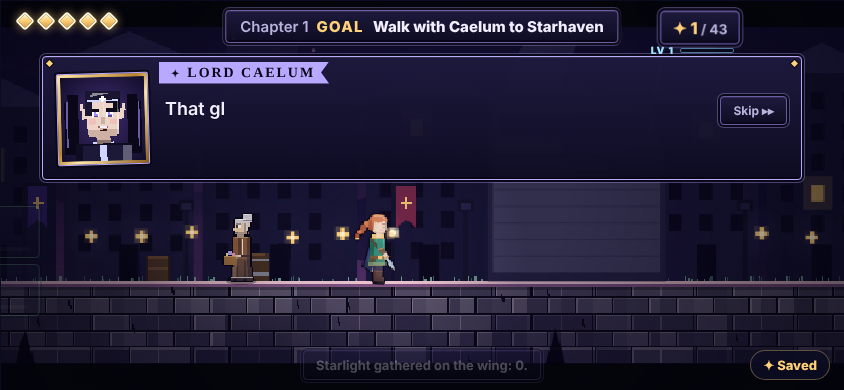
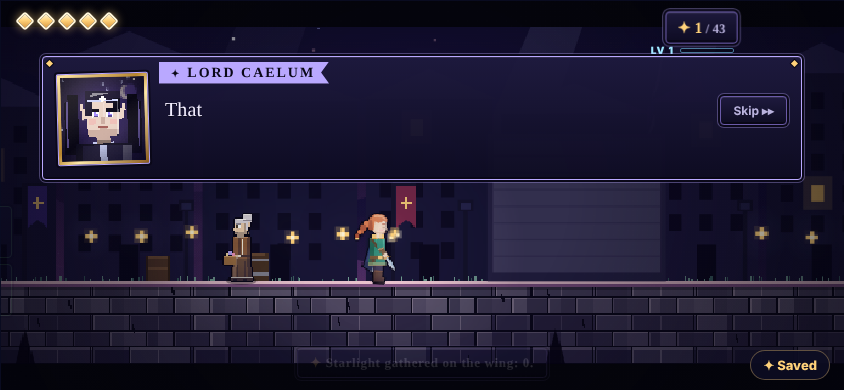
Starhaven Reimagined 16: overlapping text fixed, typographic identity, portrait backdrops
Floating words stack instead of overlapping; toasts, hints, bands, cards and
the name ribbon no longer share space. Story text uses an old book face,
world lettering uses Cinzel, hints stay plain. Portraits gain per-character
backdrops, form light and a vignette.

Claude-Session: https://claude.ai/code/session_01PwDoV4SgoNJ5FnbkB1YJ2V

diff --git a/starhaven/game/starhaven.html b/starhaven/game/starhaven.html
@@ -356,6 +356,23 @@ body.upright #d-face { width: 70px; height: 70px; } body.upright #dialog { margi
 .fbtn.sel { background: linear-gradient(90deg, rgba(255,210,122,.20), rgba(255,210,122,0)) !important; transform: none; box-shadow: none !important; }
 .fbtn.sel::before { background: var(--gold); box-shadow: 0 0 10px var(--gold); } .fbtn.sel .lbl { color: #fff6d8; } .fbtn.sel .lbl::before { content: ''; }
 #f-title { text-align: center; font-size: 17px; letter-spacing: .2em; text-transform: uppercase; }
+/* ---- one voice for the story, one for the world, one for the controls.
+   Story (what people say, what Wren writes): the old book face. The world's own lettering (names, titles, plaques): Cinzel
+   capitals in gold. How to play (hints, buttons): plain Nunito. And never two messages in the same place. */
+#d-text { font-family: 'IM Fell English', Georgia, serif; font-weight: 400; font-size: 20px; line-height: 1.36; letter-spacing: .005em; }
+#dialog.narr #d-text { font-family: 'IM Fell English', Georgia, serif; font-size: 19px; }
+.choice { font-family: 'IM Fell English', Georgia, serif; font-size: 17px; }
+#whisper span, .fx-row small, #ex-text, #c-text, .card p { font-family: 'IM Fell English', Georgia, serif; }
+#whisper span { font-size: 15px; } .fx-row small { font-size: 13.5px; font-style: italic; }
+#goal { font-family: var(--display); letter-spacing: .06em; font-size: 12.5px; } #goal .tag { font-size: 10px; letter-spacing: .2em; } #goal .tag::before { content: '\2726  '; }
+#toast { font-family: var(--display); letter-spacing: .05em; } #toast::before { content: '\2726  '; color: var(--gold); }
+#motes, #lvl, #art::after, .tbtn, #pause-btn { font-family: var(--display); }
+body[data-state="talk"] #goal { display: none; }                         /* the name ribbon sits where the goal was */
+#toast { bottom: auto !important; top: 50px !important; z-index: 8; } body.toasting #sign { opacity: 0 !important; }
+body.banding #sign, body.banding #toast, body.banding #effects { opacity: 0 !important; transition: opacity .15s; }
+#effects { top: 104px; }
+body.upright #toast { top: calc(var(--cvh) + env(safe-area-inset-top) + 72px) !important; }
+body[data-state="talk"]:not(.upright) #toast { top: auto !important; bottom: 12px !important; }   /* never over the speaker's name */
 /* ---- level and experience, under the Starlight count; touch buttons with a larger area than they look */
 #lvl { position: absolute; right: calc(max(14px, env(safe-area-inset-right)) + 96px); top: 44px; display: flex; align-items: center; gap: 6px; font: 800 10px var(--body); letter-spacing: .1em; color: #9fe8ff; }
 #lvl i { display: block; width: 54px; height: 5px; background: rgba(8,8,24,.75); border: 1px solid #4a7a9a; border-radius: 2px; overflow: hidden; } #lvl i span { display: block; height: 100%; background: linear-gradient(90deg, #4ab8e8, #9fe8ff); transition: width .4s; }
@@ -2326,7 +2343,8 @@ h2 { letter-spacing: .12em; text-transform: uppercase; }
   // Words that pop up by Wren sit behind her, never over the ground she is heading for.
   fx.word = function (x, y, text, color, life) {
     const p = SH.game && SH.game.world && SH.game.world.player;
-    if (p && Math.abs(x - p.x) < 34 && Math.abs(y - p.y) < 110) { x -= p.facing * 40; y -= 6; }
+    if (p && Math.abs(x - p.x) < 34 && Math.abs(y - p.y) < 110) { x -= p.facing * 12; y = Math.min(y, p.y - 62); }   // over her head and a little behind: clear of the path and of the cards
+    for (let k = 0; k < 6 && fx.words.some(o => Math.abs(o.x - x) < 70 && Math.abs(o.y - y) < 12); k++) y -= 13;   // never one word on top of another
     fx.words.push({ x, y, text, color: color || '#fff', life: Math.min(life || 50, 70), max: Math.min(life || 50, 70) });
   };
   fx.ghost = function (snap) { fx.ghosts.push(snap); };
@@ -3246,6 +3264,18 @@ h2 { letter-spacing: .12em; text-transform: uppercase; }
     // backdrop
     const gr = g.createRadialGradient(24, 20, 2, 24, 24, 34); gr.addColorStop(0, L.bg[0]); gr.addColorStop(1, L.bg[1]);
     g.fillStyle = gr; g.fillRect(0, 0, 48, 48);
+    {   // behind each face, something of where they belong
+      const h = i => { const x = Math.sin(i * 127.1 + who.length * 31.7) * 43758.5453; return x - Math.floor(x); };
+      const k = who.replace('_m', '');
+      if (k === 'caelum') { for (let i = 0; i < 16; i++) R(h(i) * 48, h(i + 40) * 30, 1, 1, i % 4 ? '#cfd6ff' : '#fff6d8'); g.fillStyle = 'rgba(255,246,216,0.5)'; g.beginPath(); g.arc(38, 9, 4, 0, 6.3); g.fill(); g.fillStyle = L.bg[0]; g.beginPath(); g.arc(40, 8, 3.6, 0, 6.3); g.fill(); }
+      else if (k === 'wren') { if (who === 'wren_m') { g.fillStyle = 'rgba(255,255,255,0.14)'; for (let i = 0; i < 4; i++) { g.beginPath(); g.moveTo(4 + i * 13, 48); g.lineTo(10 + i * 13, 14 + h(i) * 10); g.lineTo(16 + i * 13, 48); g.fill(); } for (let i = 0; i < 10; i++) R(h(i) * 48, h(i + 9) * 40, 1, 1, '#ffffff'); } else for (let i = 0; i < 12; i++) R(h(i) * 48, h(i + 20) * 34, 1, 1, i % 2 ? '#ffd27a' : '#fff6d8'); }
+      else if (k === 'bram') { const fg = g.createRadialGradient(24, 50, 2, 24, 50, 34); fg.addColorStop(0, 'rgba(255,150,70,0.6)'); fg.addColorStop(1, 'rgba(255,150,70,0)'); g.fillStyle = fg; g.fillRect(0, 0, 48, 48); for (let i = 0; i < 4; i++) { R(4 + i * 3, 4, 1, 16, 'rgba(200,210,226,0.5)'); } }
+      else if (k === 'iris') { g.strokeStyle = 'rgba(255,233,168,0.5)'; for (let i = 0; i < 3; i++) { g.beginPath(); g.moveTo(0, 8 + i * 9); g.bezierCurveTo(16, 2 + i * 12, 30, 20 + i * 4, 48, 6 + i * 10); g.stroke(); } for (let i = 0; i < 8; i++) R(h(i) * 48, h(i + 3) * 26, 1, 1, '#fff6d8'); }
+      else if (k === 'thane' || k === 'mirelle') { for (let y = 2; y < 34; y += 9) for (let x = 0; x < 48; x += 3) { const bh = 5 + h(x + y) * 3; g.globalAlpha = 0.45; R(x, y + 8 - bh, 2, bh, ['#7a2a3a', '#2c3d74', '#8a6a2a', '#3a5a2a'][(x + y) % 4]); } g.globalAlpha = 1; }
+      else if (k === 'nessa' || k === 'lissa') { for (let x = 0; x < 48; x += 7) { g.globalAlpha = 0.25; R(x, 0, 6, 48, '#4a3020'); g.globalAlpha = 1; } if (k === 'lissa') { R(38, 6, 1, 8, '#4a7a4a'); R(36, 5, 3, 2, '#8fd16b'); R(39, 8, 3, 2, '#8fd16b'); } }
+      else if (k === 'rowan') { for (let i = 0; i < 12; i++) { g.fillStyle = i % 2 ? 'rgba(255,154,192,0.7)' : 'rgba(255,255,255,0.7)'; g.fillRect(h(i) * 48, h(i + 7) * 36, 2, 2); } }
+      else if (k === 'queen') { g.strokeStyle = 'rgba(255,74,90,0.5)'; g.lineWidth = 2; for (let i = 0; i < 4; i++) { g.beginPath(); g.moveTo(i * 14, 48); g.quadraticCurveTo(i * 14 + 10, 20, i * 14 - 4, 0); g.stroke(); } g.lineWidth = 1; }
+    }
     if (L.wings) { R(2, 14, 8, 30, '#0a0818'); R(38, 14, 8, 30, '#0a0818'); R(4, 10, 6, 6, '#0a0818'); R(38, 10, 6, 6, '#0a0818'); R(3, 14, 1, 26, '#6a5aa8'); R(44, 14, 1, 26, '#6a5aa8'); }
     if (L.thread) { g.strokeStyle = '#ffe9a8'; g.globalAlpha = 0.8; g.beginPath(); g.moveTo(0, 40); g.bezierCurveTo(14, 24, 30, 46, 48, 30); g.stroke(); g.globalAlpha = 1; }
     // long hair behind
@@ -3294,6 +3324,11 @@ h2 { letter-spacing: .12em; text-transform: uppercase; }
     R(20, 34, 8, 2, L.shade); g.globalAlpha = 0.35; R(20, 36, 8, 2, '#000000'); g.globalAlpha = 1;
     g.globalAlpha = 0.5; R(18, 9, 9, 1, '#ffffff'); R(17, 10, 4, 1, '#ffffff'); g.globalAlpha = 0.25; R(24, 15, 1, 8, '#ffffff'); g.globalAlpha = 1;
     R(sx, 38, sw, 1, L.clothD); g.globalAlpha = 0.3; R(sx + sw - 5, 39, 5, 9, '#ffffff'); g.globalAlpha = 1;
+    // light the whole bust: warm from the upper left, cool shadow lower right, and darken the corners
+    g.globalCompositeOperation = 'source-atop';
+    const pl = g.createLinearGradient(8, 6, 40, 46); pl.addColorStop(0, 'rgba(255,240,205,0.16)'); pl.addColorStop(0.5, 'rgba(255,240,205,0)'); pl.addColorStop(1, 'rgba(24,16,70,0.26)'); g.fillStyle = pl; g.fillRect(0, 0, 48, 48);
+    const pv = g.createRadialGradient(24, 22, 14, 24, 24, 36); pv.addColorStop(0, 'rgba(0,0,0,0)'); pv.addColorStop(1, 'rgba(6,4,18,0.5)'); g.fillStyle = pv; g.fillRect(0, 0, 48, 48);
+    g.globalCompositeOperation = 'source-over';
     // rim light on the side away from the viewer
     g.globalAlpha = 0.35; R(32, 13, 1, 20, '#ffffff'); g.globalAlpha = 1;
     return (cache[key] = c);
@@ -7111,9 +7146,9 @@ h2 { letter-spacing: .12em; text-transform: uppercase; }
   H.toast = function (text) {
     const el = $('toast');
     el.textContent = text;
-    el.classList.add('show');
+    el.classList.add('show'); document.body.classList.add('toasting');   // a toast takes the hint's place while it is up
     clearTimeout(toastT);
-    toastT = setTimeout(() => el.classList.remove('show'), 3400);
+    toastT = setTimeout(() => { el.classList.remove('show'); document.body.classList.remove('toasting'); }, 3400);
   };
 
   // ---------------- dialogue box with a portrait
@@ -7254,9 +7289,9 @@ h2 { letter-spacing: .12em; text-transform: uppercase; }
   // The bond meter, the Bond Art button, and whispers down the bond.
   let lastArt = '';
   H.art = function (a) {
-    const on = a.active(), ready = a.ready(), key = on + '|' + ready + '|' + Math.round(a.meter) + '|' + a.nextKind() + '|' + !!a.cutin;
+    const on = a.active(), ready = a.ready(), key = on + '|' + ready + '|' + Math.round(a.meter) + '|' + a.nextKind() + '|' + !!a.cutin + '|' + !!a.band;
     if (key === lastArt) return; lastArt = key;
-    document.body.classList.toggle('cutin', !!a.cutin);
+    document.body.classList.toggle('cutin', !!a.cutin); document.body.classList.toggle('banding', !!a.band);
     $('art').style.display = on ? 'block' : 'none';
     $('art').classList.toggle('ready', ready);
     $('art').firstChild.style.width = Math.round(a.meter / a.max * 100) + '%';

diff --git a/starhaven/game/src/art.js b/starhaven/game/src/art.js
@@ -29,6 +29,18 @@
     // backdrop
     const gr = g.createRadialGradient(24, 20, 2, 24, 24, 34); gr.addColorStop(0, L.bg[0]); gr.addColorStop(1, L.bg[1]);
     g.fillStyle = gr; g.fillRect(0, 0, 48, 48);
+    {   // behind each face, something of where they belong
+      const h = i => { const x = Math.sin(i * 127.1 + who.length * 31.7) * 43758.5453; return x - Math.floor(x); };
+      const k = who.replace('_m', '');
+      if (k === 'caelum') { for (let i = 0; i < 16; i++) R(h(i) * 48, h(i + 40) * 30, 1, 1, i % 4 ? '#cfd6ff' : '#fff6d8'); g.fillStyle = 'rgba(255,246,216,0.5)'; g.beginPath(); g.arc(38, 9, 4, 0, 6.3); g.fill(); g.fillStyle = L.bg[0]; g.beginPath(); g.arc(40, 8, 3.6, 0, 6.3); g.fill(); }
+      else if (k === 'wren') { if (who === 'wren_m') { g.fillStyle = 'rgba(255,255,255,0.14)'; for (let i = 0; i < 4; i++) { g.beginPath(); g.moveTo(4 + i * 13, 48); g.lineTo(10 + i * 13, 14 + h(i) * 10); g.lineTo(16 + i * 13, 48); g.fill(); } for (let i = 0; i < 10; i++) R(h(i) * 48, h(i + 9) * 40, 1, 1, '#ffffff'); } else for (let i = 0; i < 12; i++) R(h(i) * 48, h(i + 20) * 34, 1, 1, i % 2 ? '#ffd27a' : '#fff6d8'); }
+      else if (k === 'bram') { const fg = g.createRadialGradient(24, 50, 2, 24, 50, 34); fg.addColorStop(0, 'rgba(255,150,70,0.6)'); fg.addColorStop(1, 'rgba(255,150,70,0)'); g.fillStyle = fg; g.fillRect(0, 0, 48, 48); for (let i = 0; i < 4; i++) { R(4 + i * 3, 4, 1, 16, 'rgba(200,210,226,0.5)'); } }
+      else if (k === 'iris') { g.strokeStyle = 'rgba(255,233,168,0.5)'; for (let i = 0; i < 3; i++) { g.beginPath(); g.moveTo(0, 8 + i * 9); g.bezierCurveTo(16, 2 + i * 12, 30, 20 + i * 4, 48, 6 + i * 10); g.stroke(); } for (let i = 0; i < 8; i++) R(h(i) * 48, h(i + 3) * 26, 1, 1, '#fff6d8'); }
+      else if (k === 'thane' || k === 'mirelle') { for (let y = 2; y < 34; y += 9) for (let x = 0; x < 48; x += 3) { const bh = 5 + h(x + y) * 3; g.globalAlpha = 0.45; R(x, y + 8 - bh, 2, bh, ['#7a2a3a', '#2c3d74', '#8a6a2a', '#3a5a2a'][(x + y) % 4]); } g.globalAlpha = 1; }
+      else if (k === 'nessa' || k === 'lissa') { for (let x = 0; x < 48; x += 7) { g.globalAlpha = 0.25; R(x, 0, 6, 48, '#4a3020'); g.globalAlpha = 1; } if (k === 'lissa') { R(38, 6, 1, 8, '#4a7a4a'); R(36, 5, 3, 2, '#8fd16b'); R(39, 8, 3, 2, '#8fd16b'); } }
+      else if (k === 'rowan') { for (let i = 0; i < 12; i++) { g.fillStyle = i % 2 ? 'rgba(255,154,192,0.7)' : 'rgba(255,255,255,0.7)'; g.fillRect(h(i) * 48, h(i + 7) * 36, 2, 2); } }
+      else if (k === 'queen') { g.strokeStyle = 'rgba(255,74,90,0.5)'; g.lineWidth = 2; for (let i = 0; i < 4; i++) { g.beginPath(); g.moveTo(i * 14, 48); g.quadraticCurveTo(i * 14 + 10, 20, i * 14 - 4, 0); g.stroke(); } g.lineWidth = 1; }
+    }
     if (L.wings) { R(2, 14, 8, 30, '#0a0818'); R(38, 14, 8, 30, '#0a0818'); R(4, 10, 6, 6, '#0a0818'); R(38, 10, 6, 6, '#0a0818'); R(3, 14, 1, 26, '#6a5aa8'); R(44, 14, 1, 26, '#6a5aa8'); }
     if (L.thread) { g.strokeStyle = '#ffe9a8'; g.globalAlpha = 0.8; g.beginPath(); g.moveTo(0, 40); g.bezierCurveTo(14, 24, 30, 46, 48, 30); g.stroke(); g.globalAlpha = 1; }
     // long hair behind
@@ -77,6 +89,11 @@
     R(20, 34, 8, 2, L.shade); g.globalAlpha = 0.35; R(20, 36, 8, 2, '#000000'); g.globalAlpha = 1;
     g.globalAlpha = 0.5; R(18, 9, 9, 1, '#ffffff'); R(17, 10, 4, 1, '#ffffff'); g.globalAlpha = 0.25; R(24, 15, 1, 8, '#ffffff'); g.globalAlpha = 1;
     R(sx, 38, sw, 1, L.clothD); g.globalAlpha = 0.3; R(sx + sw - 5, 39, 5, 9, '#ffffff'); g.globalAlpha = 1;
+    // light the whole bust: warm from the upper left, cool shadow lower right, and darken the corners
+    g.globalCompositeOperation = 'source-atop';
+    const pl = g.createLinearGradient(8, 6, 40, 46); pl.addColorStop(0, 'rgba(255,240,205,0.16)'); pl.addColorStop(0.5, 'rgba(255,240,205,0)'); pl.addColorStop(1, 'rgba(24,16,70,0.26)'); g.fillStyle = pl; g.fillRect(0, 0, 48, 48);
+    const pv = g.createRadialGradient(24, 22, 14, 24, 24, 36); pv.addColorStop(0, 'rgba(0,0,0,0)'); pv.addColorStop(1, 'rgba(6,4,18,0.5)'); g.fillStyle = pv; g.fillRect(0, 0, 48, 48);
+    g.globalCompositeOperation = 'source-over';
     // rim light on the side away from the viewer
     g.globalAlpha = 0.35; R(32, 13, 1, 20, '#ffffff'); g.globalAlpha = 1;
     return (cache[key] = c);

diff --git a/starhaven/game/index.src.html b/starhaven/game/index.src.html
@@ -356,6 +356,23 @@ body.upright #d-face { width: 70px; height: 70px; } body.upright #dialog { margi
 .fbtn.sel { background: linear-gradient(90deg, rgba(255,210,122,.20), rgba(255,210,122,0)) !important; transform: none; box-shadow: none !important; }
 .fbtn.sel::before { background: var(--gold); box-shadow: 0 0 10px var(--gold); } .fbtn.sel .lbl { color: #fff6d8; } .fbtn.sel .lbl::before { content: ''; }
 #f-title { text-align: center; font-size: 17px; letter-spacing: .2em; text-transform: uppercase; }
+/* ---- one voice for the story, one for the world, one for the controls.
+   Story (what people say, what Wren writes): the old book face. The world's own lettering (names, titles, plaques): Cinzel
+   capitals in gold. How to play (hints, buttons): plain Nunito. And never two messages in the same place. */
+#d-text { font-family: 'IM Fell English', Georgia, serif; font-weight: 400; font-size: 20px; line-height: 1.36; letter-spacing: .005em; }
+#dialog.narr #d-text { font-family: 'IM Fell English', Georgia, serif; font-size: 19px; }
+.choice { font-family: 'IM Fell English', Georgia, serif; font-size: 17px; }
+#whisper span, .fx-row small, #ex-text, #c-text, .card p { font-family: 'IM Fell English', Georgia, serif; }
+#whisper span { font-size: 15px; } .fx-row small { font-size: 13.5px; font-style: italic; }
+#goal { font-family: var(--display); letter-spacing: .06em; font-size: 12.5px; } #goal .tag { font-size: 10px; letter-spacing: .2em; } #goal .tag::before { content: '\2726  '; }
+#toast { font-family: var(--display); letter-spacing: .05em; } #toast::before { content: '\2726  '; color: var(--gold); }
+#motes, #lvl, #art::after, .tbtn, #pause-btn { font-family: var(--display); }
+body[data-state="talk"] #goal { display: none; }                         /* the name ribbon sits where the goal was */
+#toast { bottom: auto !important; top: 50px !important; z-index: 8; } body.toasting #sign { opacity: 0 !important; }
+body.banding #sign, body.banding #toast, body.banding #effects { opacity: 0 !important; transition: opacity .15s; }
+#effects { top: 104px; }
+body.upright #toast { top: calc(var(--cvh) + env(safe-area-inset-top) + 72px) !important; }
+body[data-state="talk"]:not(.upright) #toast { top: auto !important; bottom: 12px !important; }   /* never over the speaker's name */
 /* ---- level and experience, under the Starlight count; touch buttons with a larger area than they look */
 #lvl { position: absolute; right: calc(max(14px, env(safe-area-inset-right)) + 96px); top: 44px; display: flex; align-items: center; gap: 6px; font: 800 10px var(--body); letter-spacing: .1em; color: #9fe8ff; }
 #lvl i { display: block; width: 54px; height: 5px; background: rgba(8,8,24,.75); border: 1px solid #4a7a9a; border-radius: 2px; overflow: hidden; } #lvl i span { display: block; height: 100%; background: linear-gradient(90deg, #4ab8e8, #9fe8ff); transition: width .4s; }

diff --git a/starhaven/game/src/hud.js b/starhaven/game/src/hud.js
@@ -66,9 +66,9 @@
   H.toast = function (text) {
     const el = $('toast');
     el.textContent = text;
-    el.classList.add('show');
+    el.classList.add('show'); document.body.classList.add('toasting');   // a toast takes the hint's place while it is up
     clearTimeout(toastT);
-    toastT = setTimeout(() => el.classList.remove('show'), 3400);
+    toastT = setTimeout(() => { el.classList.remove('show'); document.body.classList.remove('toasting'); }, 3400);
   };
 
   // ---------------- dialogue box with a portrait
@@ -209,9 +209,9 @@
   // The bond meter, the Bond Art button, and whispers down the bond.
   let lastArt = '';
   H.art = function (a) {
-    const on = a.active(), ready = a.ready(), key = on + '|' + ready + '|' + Math.round(a.meter) + '|' + a.nextKind() + '|' + !!a.cutin;
+    const on = a.active(), ready = a.ready(), key = on + '|' + ready + '|' + Math.round(a.meter) + '|' + a.nextKind() + '|' + !!a.cutin + '|' + !!a.band;
     if (key === lastArt) return; lastArt = key;
-    document.body.classList.toggle('cutin', !!a.cutin);
+    document.body.classList.toggle('cutin', !!a.cutin); document.body.classList.toggle('banding', !!a.band);
     $('art').style.display = on ? 'block' : 'none';
     $('art').classList.toggle('ready', ready);
     $('art').firstChild.style.width = Math.round(a.meter / a.max * 100) + '%';

diff --git a/starhaven/game/src/fx.js b/starhaven/game/src/fx.js
@@ -33,7 +33,8 @@
   // Words that pop up by Wren sit behind her, never over the ground she is heading for.
   fx.word = function (x, y, text, color, life) {
     const p = SH.game && SH.game.world && SH.game.world.player;
-    if (p && Math.abs(x - p.x) < 34 && Math.abs(y - p.y) < 110) { x -= p.facing * 40; y -= 6; }
+    if (p && Math.abs(x - p.x) < 34 && Math.abs(y - p.y) < 110) { x -= p.facing * 12; y = Math.min(y, p.y - 62); }   // over her head and a little behind: clear of the path and of the cards
+    for (let k = 0; k < 6 && fx.words.some(o => Math.abs(o.x - x) < 70 && Math.abs(o.y - y) < 12); k++) y -= 13;   // never one word on top of another
     fx.words.push({ x, y, text, color: color || '#fff', life: Math.min(life || 50, 70), max: Math.min(life || 50, 70) });
   };
   fx.ghost = function (snap) { fx.ghosts.push(snap); };

diff --git a/starhaven/CHANGELOG.md b/starhaven/CHANGELOG.md
@@ -1,5 +1,34 @@
 # Starhaven — Changelog
 
+## Reimagined 16 — no text over text, three voices, portraits with a world behind them (Nov 18, 2026)
+Will: some text pops up over other text; keep designing the characters; keep beautifying the game and the text and
+give it an identity.
+
+**Text over text, cleaned up.** Found by putting every kind of message on screen at once:
+- Floating words stacked on the same spot ("+4 XP" on "BULLSEYE" on "Firewood 2/3"). Each new one now sits above the
+  last, over Wren's head.
+- The speaker's name ribbon sat on top of the goal line. The goal hides while someone is talking.
+- Toasts and hints shared the top of the screen. A toast now takes the hint's place while it is up, and during
+  conversation it drops to the bottom so it never covers the speaker's name.
+- Level-up and finisher bands ran across hints and consequence cards. Those fade while a band is up.
+- Consequence cards overlapped the corner of the hint plate; they start lower.
+
+**An identity for the text: three voices.**
+- *The story* (what people say, narration, choices, whispers, the reasons on consequence cards, the journal): an old
+  book face (IM Fell English).
+- *The world's own lettering* (names, the goal, toasts, buttons, counts, plaques): Cinzel capitals, in gold, with the
+  four-point star as the mark.
+- *How to play* (hints): plain Nunito, so instructions never look like story.
+
+**Portraits.** Every face now has something of its world behind it: stars and a crescent for Caelum, forge-light and
+racked blades for Bram, threads of fate for Iris, shelves for Thane and Mirelle, cottage boards for the sisters (and
+Lissa's sprig), blossom for Rowan, thorns for the Queen, snow and pines for mortal Wren, starlight once she is fae.
+Each bust is lit from the upper left with a cool shadow, and the corners are darkened.
+
+**Honest notes.** The three faces come from Google Fonts and fall back to plainer ones offline. The faces themselves
+(the drawing of eyes, hair and so on) are as they were last round; this adds setting and light. Tests: 50 play
+checks, 19 menu checks, the fuzz run, the screenshot run. **Not played by hand or on a phone.**
+
 ## Reimagined 15 — Wren herself (Nov 18, 2026)
 Will: keep improving the slice, playtesting, and the graphics, animations and character models.
 
